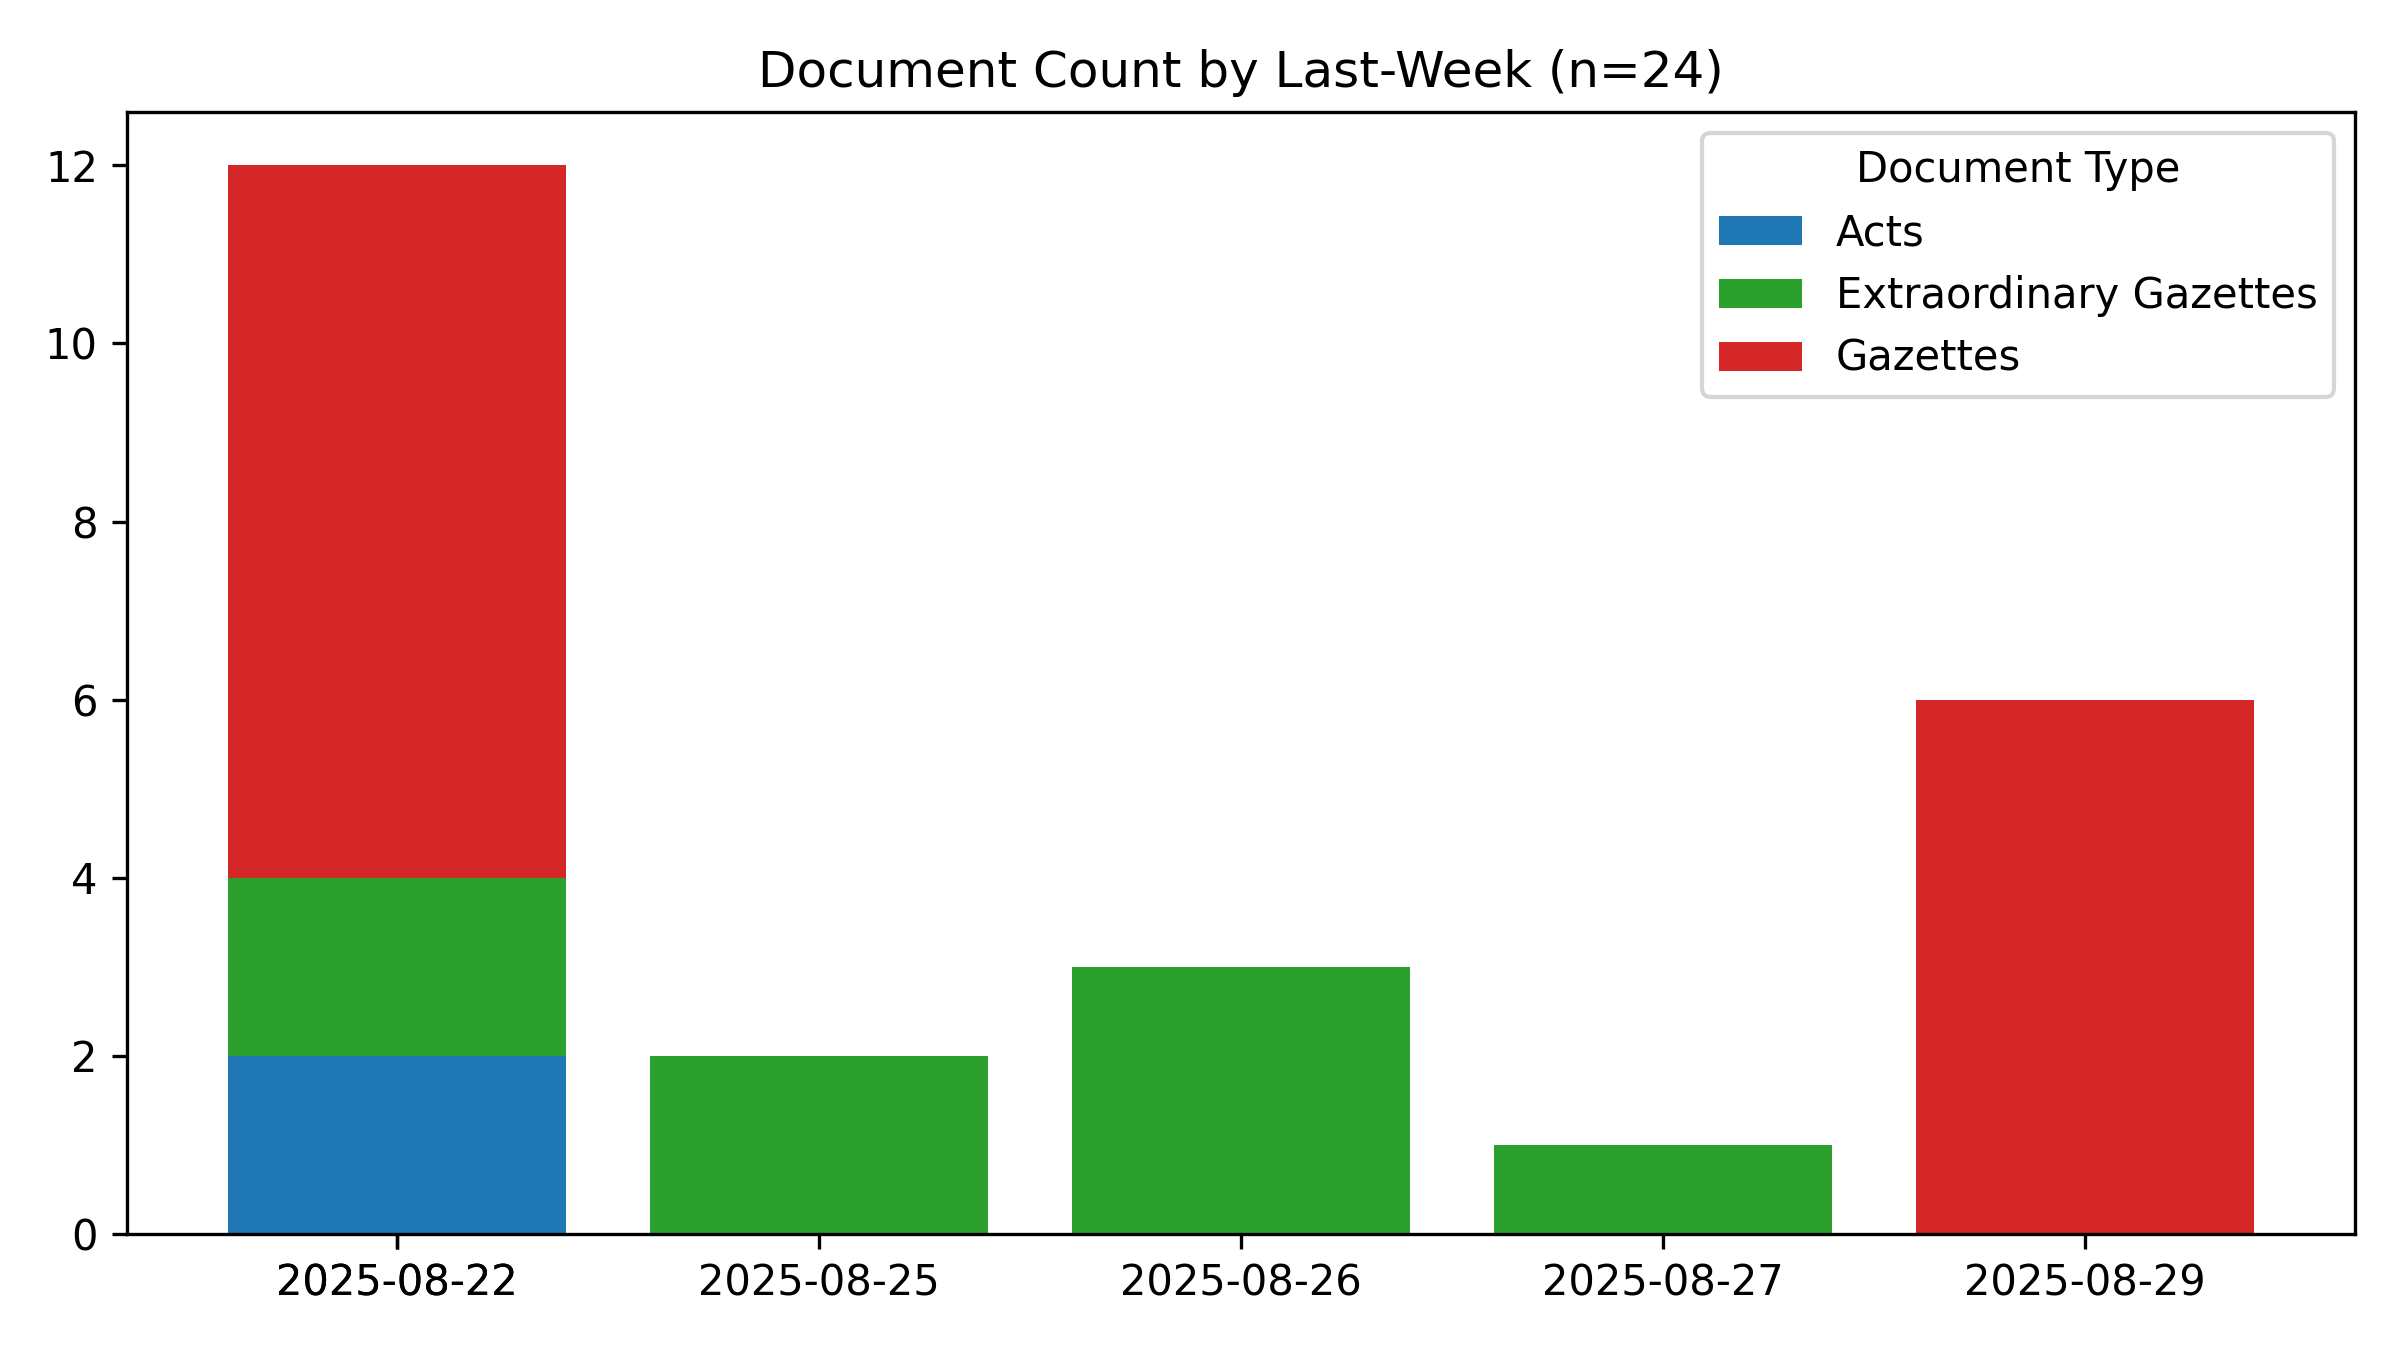
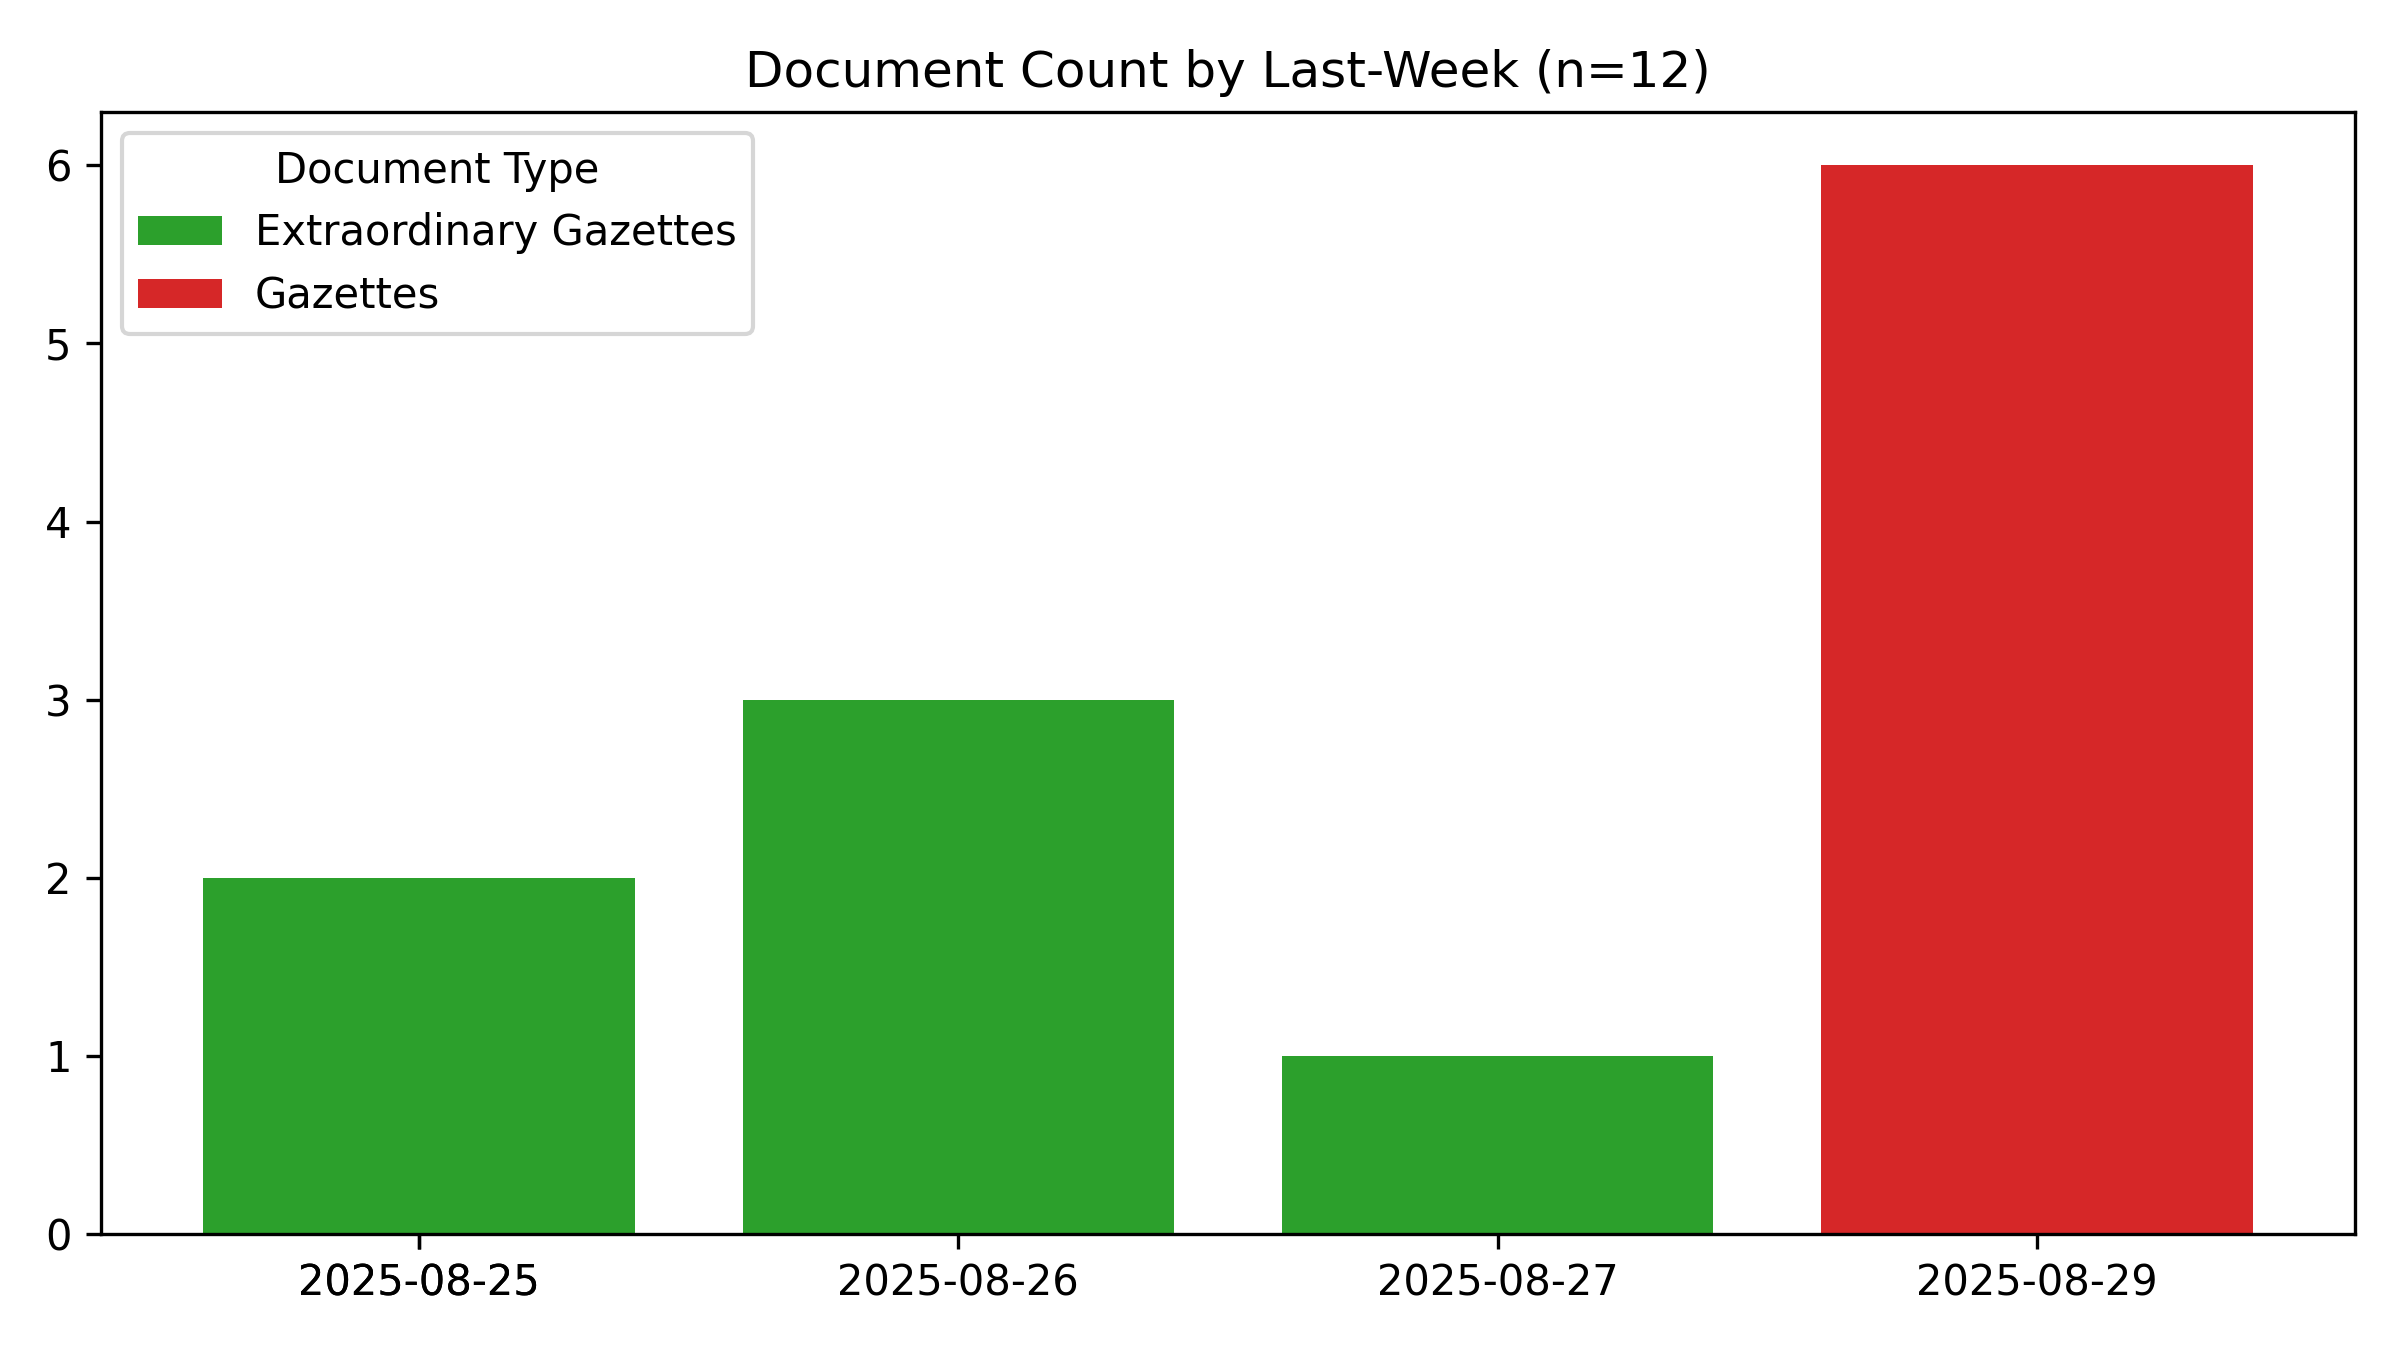
🤖 [build_readme.yml] 2025-08-30-0014

Changed region(s): [[0.0, 0.0933, 0.9688, 0.9644], [0.3125, 0.0311, 0.7188, 0.0622]]

diff --git a/README.md b/README.md
@@ -1,6 +1,6 @@
 # #SriLanka 🇱🇰 - Legal Documents #Dataset
 
-*Last Updated **2025-08-30 05:12:29**.*
+*Last Updated **2025-08-30 05:44:39**.*
 
 **44,464** documents (24.3 MB), from 1981-01-22 to 2025-08-29.
 
@@ -54,7 +54,7 @@ For best results, use a desktop browser.
 
 ## Recent Documents (Published during the last 7 days)
 
-**24** Documents
+**12** Documents
 
 - 📢 [2025-08-29] [Legal Section](https://github.com/nuuuwan/lk_legal_docs_data/tree/data_2020s/data/gazettes/2025/2025-08-29-legal-section)
 - 📢 [2025-08-29] [IV (B) - Local Government](https://github.com/nuuuwan/lk_legal_docs_data/tree/data_2020s/data/gazettes/2025/2025-08-29-iv-b-local-government)
@@ -68,15 +68,3 @@ For best results, use a desktop browser.
 - 🚨 [2025-08-26] [Ministry of Energy - Sri Lanka Electricity Act, no 36 of 2024 Regulation](https://github.com/nuuuwan/lk_legal_docs_data/tree/data_2020s/data/extra-gazettes/2025/2451-11)
 - 🚨 [2025-08-25] [Ministry of Youth Affairs and Sports - Regulations Made by the Minister of Youth Affairs and Sports under Sections 32 & 33 of Sports Law No. 25 of 1973](https://github.com/nuuuwan/lk_legal_docs_data/tree/data_2020s/data/extra-gazettes/2025/2451-09)
 - 🚨 [2025-08-25] [Sri Lanka Customs - Rates of Exchange with effect from 25.08.2025 to 31.08.2025](https://github.com/nuuuwan/lk_legal_docs_data/tree/data_2020s/data/extra-gazettes/2025/2451-01)
-- 🚨 [2025-08-22] [Election Commission - Notice under Section 66A (1) (a) Filling of a Vacancy in the Office of Member of the Nagoda Pradeshiya Sabha.](https://github.com/nuuuwan/lk_legal_docs_data/tree/data_2020s/data/extra-gazettes/2025/2450-57)
-- 🚨 [2025-08-22] [Dept. of Census and Statistics- National Consumer Price Index- July 2025](https://github.com/nuuuwan/lk_legal_docs_data/tree/data_2020s/data/extra-gazettes/2025/2450-43)
-- 📢 [2025-08-22] [Legal Section](https://github.com/nuuuwan/lk_legal_docs_data/tree/data_2020s/data/gazettes/2025/2025-08-22-legal-section)
-- 📢 [2025-08-22] [Land Section](https://github.com/nuuuwan/lk_legal_docs_data/tree/data_2020s/data/gazettes/2025/2025-08-22-land-section)
-- 📢 [2025-08-22] [IV (B) - Local Government](https://github.com/nuuuwan/lk_legal_docs_data/tree/data_2020s/data/gazettes/2025/2025-08-22-iv-b-local-government)
-- 📢 [2025-08-22] [IV (A) - Provincial Councils](https://github.com/nuuuwan/lk_legal_docs_data/tree/data_2020s/data/gazettes/2025/2025-08-22-iv-a-provincial-councils)
-- 📢 [2025-08-22] [(III) - TRADE MARKS AND PATENT NOTICES](https://github.com/nuuuwan/lk_legal_docs_data/tree/data_2020s/data/gazettes/2025/2025-08-22-iii-trade-marks-and-patent-notices)
-- 📢 [2025-08-22] [(IIB) - Advertising](https://github.com/nuuuwan/lk_legal_docs_data/tree/data_2020s/data/gazettes/2025/2025-08-22-iib-advertising)
-- 📢 [2025-08-22] [(IIA) - Advertising](https://github.com/nuuuwan/lk_legal_docs_data/tree/data_2020s/data/gazettes/2025/2025-08-22-iia-advertising)
-- 📢 [2025-08-22] [(I) - General](https://github.com/nuuuwan/lk_legal_docs_data/tree/data_2020s/data/gazettes/2025/2025-08-22-i-general)
-- 🏛 [2025-08-22] [Rubber Control (Amendment)](https://github.com/nuuuwan/lk_legal_docs_data/tree/data_2020s/data/acts/2025/16-2025)
-- 🏛 [2025-08-22] [Samurdhi (Amendment)](https://github.com/nuuuwan/lk_legal_docs_data/tree/data_2020s/data/acts/2025/15-2025)
